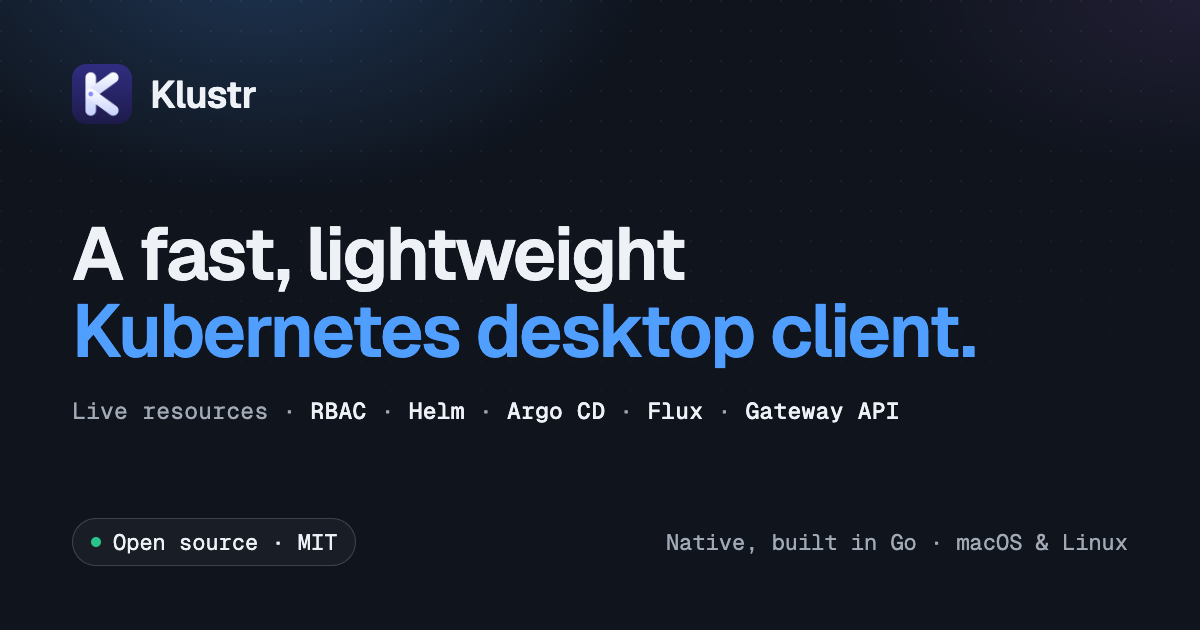
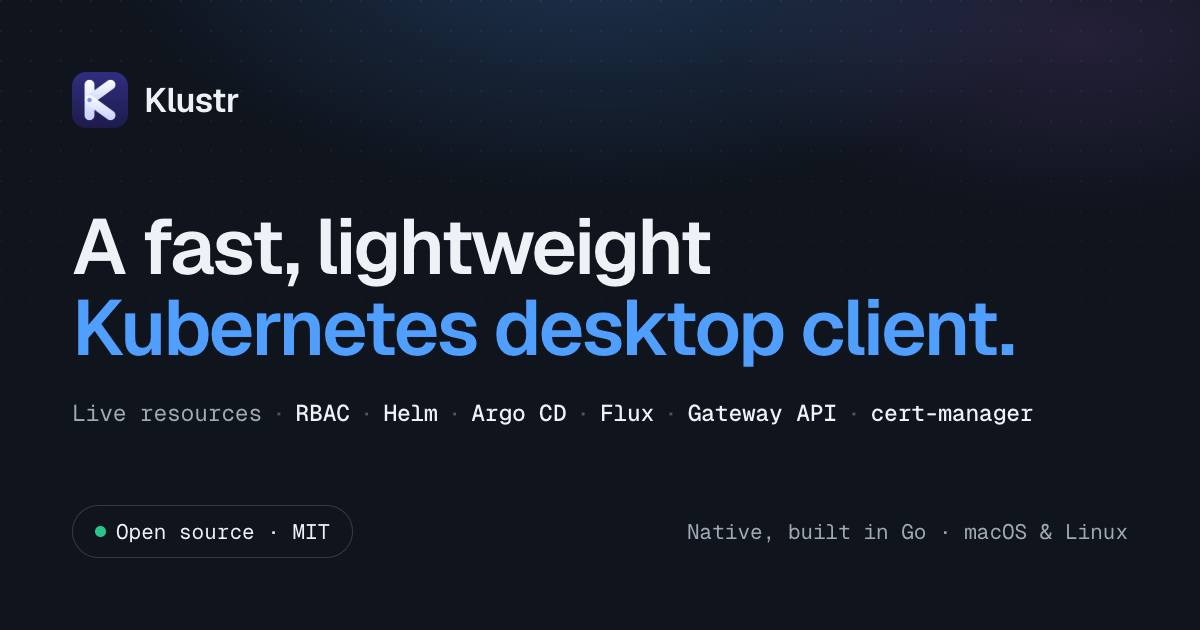
fix(site): add cert-manager to OpenGraph metadata and regenerate og.png
The social-card metadata and the og.png feature line still listed Helm,
Argo CD, Flux and Gateway API but omitted cert-manager, which is a
first-class integration. Add it to the meta/og/twitter/ld+json
descriptions, the hero and features copy, and the og.png feature line.
Add site/og-template.html as the regeneratable source for og.png, which
previously had none.

diff --git a/og-template.html b/og-template.html
@@ -1,0 +1,122 @@
+<!doctype html>
+<!--
+  Source template for public/og.png (1200×630 social card).
+  Regenerate after changing it:
+    cd site && npx playwright screenshot --viewport-size=1200,630 \
+      og-template.html public/og.png
+  (or render via the project's Playwright tooling). Keep the feature line in
+  sync with the site/README feature list.
+-->
+<html lang="en">
+  <head>
+    <meta charset="UTF-8" />
+    <link rel="preconnect" href="https://fonts.googleapis.com" />
+    <link rel="preconnect" href="https://fonts.gstatic.com" crossorigin />
+    <link
+      href="https://fonts.googleapis.com/css2?family=Geist:wght@400;500;600;700&family=Geist+Mono:wght@400;500&display=swap"
+      rel="stylesheet"
+    />
+    <style>
+      :root {
+        --background: oklch(0.19 0.02 264);
+        --foreground: oklch(0.96 0.008 256);
+        --muted: oklch(0.73 0.02 256);
+        --primary: oklch(0.7 0.17 256);
+        --ok: oklch(0.73 0.15 162);
+        --border: oklch(1 0 0 / 16%);
+        --sans: "Geist", ui-sans-serif, system-ui, sans-serif;
+        --mono: "Geist Mono", ui-monospace, "SFMono-Regular", monospace;
+      }
+      * { margin: 0; padding: 0; box-sizing: border-box; }
+      html, body { width: 1200px; height: 630px; }
+      body {
+        position: relative;
+        background-color: var(--background);
+        color: var(--foreground);
+        font-family: var(--sans);
+        overflow: hidden;
+        -webkit-font-smoothing: antialiased;
+      }
+      .glow, .grid {
+        position: absolute;
+        inset: 0;
+        z-index: 0;
+      }
+      .glow {
+        background:
+          radial-gradient(58% 60% at 50% -12%, oklch(0.7 0.17 256 / 0.24), transparent 72%),
+          radial-gradient(42% 40% at 90% 6%, oklch(0.7 0.2 304 / 0.12), transparent 70%);
+      }
+      .grid {
+        background-image: radial-gradient(circle at 1px 1px, oklch(1 0 0 / 0.05) 1px, transparent 0);
+        background-size: 30px 30px;
+        mask-image: linear-gradient(180deg, #000 0%, transparent 85%);
+      }
+      .frame {
+        position: relative;
+        z-index: 1;
+        height: 100%;
+        display: flex;
+        flex-direction: column;
+        justify-content: space-between;
+        padding: 72px;
+      }
+      .brand { display: flex; align-items: center; gap: 16px; }
+      .brand img { width: 56px; height: 56px; border-radius: 14px; }
+      .brand span { font-size: 34px; font-weight: 600; letter-spacing: -0.02em; }
+
+      h1 {
+        font-size: 78px;
+        font-weight: 600;
+        line-height: 1.04;
+        letter-spacing: -0.03em;
+      }
+      h1 .accent { color: var(--primary); }
+      .features {
+        margin-top: 30px;
+        font-family: var(--mono);
+        font-size: 23px;
+        letter-spacing: -0.01em;
+        color: var(--muted);
+      }
+      .features b { color: var(--foreground); font-weight: 500; }
+      .features .sep { color: oklch(1 0 0 / 28%); padding: 0 10px; }
+
+      .footer { display: flex; align-items: center; justify-content: space-between; }
+      .pill {
+        display: inline-flex;
+        align-items: center;
+        gap: 10px;
+        border: 1px solid var(--border);
+        border-radius: 9999px;
+        padding: 12px 22px;
+        font-family: var(--mono);
+        font-size: 21px;
+      }
+      .dot { width: 11px; height: 11px; border-radius: 9999px; background: var(--ok); }
+      .meta { font-family: var(--mono); font-size: 21px; color: var(--muted); }
+    </style>
+  </head>
+  <body>
+    <div class="glow"></div>
+    <div class="grid"></div>
+    <div class="frame">
+      <div class="brand">
+        <img src="public/appicon.png" alt="" />
+        <span>Klustr</span>
+      </div>
+
+      <div>
+        <h1>A fast, lightweight<br /><span class="accent">Kubernetes desktop client.</span></h1>
+        <div class="features">
+          Live resources<span class="sep">·</span><b>RBAC</b><span class="sep">·</span><b>Helm</b><span class="sep">·</span><b>Argo&nbsp;CD</b><span class="sep">·</span><b>Flux</b><span class="sep">·</span><b>Gateway&nbsp;API</b><span class="sep">·</span><b>cert-manager</b>
+        </div>
+      </div>
+
+      <div class="footer">
+        <span class="pill"><span class="dot"></span>Open source · MIT</span>
+        <span class="meta">Native, built in Go · macOS &amp; Linux</span>
+      </div>
+    </div>
+  </body>
+</html>

diff --git a/index.html b/index.html
@@ -9,7 +9,7 @@
     <title>Klustr — a fast, native Kubernetes desktop client</title>
     <meta
       name="description"
-      content="Klustr is a native Kubernetes desktop client built in Go. Live resources, full RBAC, Helm, Argo CD, Flux CD and Gateway API — driven straight from your kubeconfig, with nothing installed in your cluster."
+      content="Klustr is a native Kubernetes desktop client built in Go. Live resources, full RBAC, Helm, Argo CD, Flux CD, Gateway API and cert-manager — driven straight from your kubeconfig, with nothing installed in your cluster."
     />
     <link rel="canonical" href="https://klustr.dev/" />
     <meta name="robots" content="index, follow" />
@@ -24,7 +24,7 @@
     <meta property="og:title" content="Klustr — a fast, native Kubernetes desktop client" />
     <meta
       property="og:description"
-      content="A native Kubernetes desktop client built in Go — live resources, full RBAC, Helm, Argo CD, Flux CD and Gateway API, straight from your kubeconfig."
+      content="A native Kubernetes desktop client built in Go — live resources, full RBAC, Helm, Argo CD, Flux CD, Gateway API and cert-manager, straight from your kubeconfig."
     />
     <meta property="og:image" content="https://klustr.dev/og.png" />
     <meta property="og:image:width" content="1200" />
@@ -37,7 +37,7 @@
     <meta name="twitter:title" content="Klustr — a fast, native Kubernetes desktop client" />
     <meta
       name="twitter:description"
-      content="A native Kubernetes desktop client built in Go — live resources, full RBAC, Helm, Argo CD, Flux CD and Gateway API, straight from your kubeconfig."
+      content="A native Kubernetes desktop client built in Go — live resources, full RBAC, Helm, Argo CD, Flux CD, Gateway API and cert-manager, straight from your kubeconfig."
     />
     <meta name="twitter:image" content="https://klustr.dev/og.png" />
     <meta name="twitter:image:alt" content="Klustr — a fast, lightweight Kubernetes desktop client" />
@@ -49,7 +49,7 @@
         "name": "Klustr",
         "applicationCategory": "DeveloperApplication",
         "operatingSystem": "macOS, Linux",
-        "description": "A native Kubernetes desktop client built in Go. Live resources, full RBAC, Helm, Argo CD, Flux CD and Gateway API, driven straight from your kubeconfig with nothing installed in the cluster.",
+        "description": "A native Kubernetes desktop client built in Go. Live resources, full RBAC, Helm, Argo CD, Flux CD, Gateway API and cert-manager, driven straight from your kubeconfig with nothing installed in the cluster.",
         "url": "https://klustr.dev/",
         "downloadUrl": "https://github.com/SametKUM/klustr/releases/latest",
         "softwareHelp": "https://github.com/SametKUM/klustr",
@@ -112,7 +112,7 @@
             <p class="mx-auto mt-5 max-w-2xl text-pretty text-base leading-relaxed text-muted-foreground sm:text-lg">
               Native, built in Go, and free under the MIT license — no Electron, no daemon, nothing installed in your cluster.
               It talks to the Kubernetes API straight from your <code class="rounded bg-[oklch(1_0_0/0.06)] px-1.5 py-0.5 font-mono text-[0.85em] text-foreground">~/.kube/config</code>:
-              live resources, full RBAC, Helm, Argo CD, Flux and Gateway API.
+              live resources, full RBAC, Helm, Argo CD, Flux, Gateway API and cert-manager.
             </p>
 
             <!-- Install widget — front and center -->
@@ -253,7 +253,7 @@
           <h2 class="mt-3 text-3xl font-semibold sm:text-4xl">Built-ins, CRDs, and your GitOps stack</h2>
           <p class="mt-4 text-muted-foreground">
             Every built-in kind, the complete RBAC set, auto-discovered CRDs, and native Helm,
-            Argo CD, Flux and Gateway API support — in one window, with nothing installed in the cluster.
+            Argo CD, Flux, Gateway API and cert-manager support — in one window, with nothing installed in the cluster.
           </p>
         </div>
 
